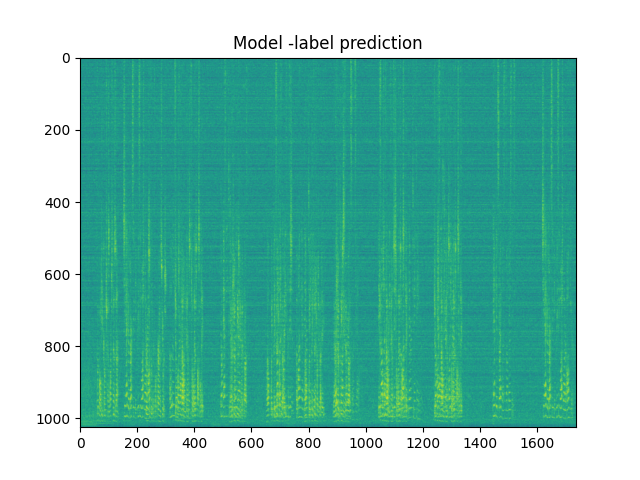
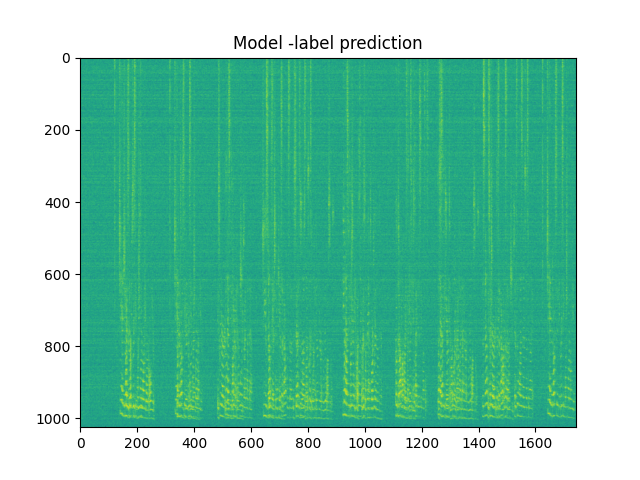
Added visualize plots and improved readme

diff --git a/Python_Create_Data_Base/test_dataset_sample.py b/Python_Create_Data_Base/test_dataset_sample.py
@@ -1,118 +1,93 @@
-import numpy as np
-import matplotlib.pyplot as plt
-import soundfile as sf
 import os
 
-def visualize_audio_and_angles(sample_idx, data_dir='data'):
+import matplotlib.pyplot as plt
+import numpy as np
+import soundfile as sf
+
+
+def labels_to_angles(labels):
+    labels = np.asarray(labels)
+    angles = np.full(labels.shape, np.nan, dtype=float)
+    active = labels > 0
+    angles[active] = labels[active] * 10 + 5
+    return angles
+
+
+def visualize_audio_and_angles(sample_idx, data_dir='data', channel_idx=0, output_dir='Results'):
     """
-    Plots the mixed audio with speaker highlights and their ground truth angles.
-    
+    Plot the mixed audio waveform and the time-aligned angle of each speaker.
+
     Parameters
     ----------
     sample_idx : int
-        The index of the sample to visualize (e.g., 1).
+        The index of the sample to visualize.
     data_dir : str
         Path to the folder containing the generated .wav and .npy files.
+    channel_idx : int
+        Microphone channel to plot from the multi-channel mixture.
     """
-    
-    # --- 1. Load Data ---
-    # Construct file paths
     mixed_wav = os.path.join(data_dir, f'together_{sample_idx}.wav')
-    s1_wav = os.path.join(data_dir, f'first_{sample_idx}.wav')
-    s2_wav = os.path.join(data_dir, f'second_{sample_idx}.wav')
     label1_npy = os.path.join(data_dir, f'label_location_first_{sample_idx}.npy')
     label2_npy = os.path.join(data_dir, f'label_location_second_{sample_idx}.npy')
-    
-    # Check if files exist
-    for f in [mixed_wav, s1_wav, s2_wav, label1_npy, label2_npy]:
-        if not os.path.exists(f):
-            print(f"Error: File not found: {f}")
+
+    for file_path in [mixed_wav, label1_npy, label2_npy]:
+        if not os.path.exists(file_path):
+            print(f'Error: File not found: {file_path}')
             return
 
-    # Read Audio
     y_mix, fs = sf.read(mixed_wav)
-    y_s1, _ = sf.read(s1_wav)
-    y_s2, _ = sf.read(s2_wav)
-    
-    # Read Labels (Frame-based classes 0-17)
     l1 = np.load(label1_npy)
     l2 = np.load(label2_npy)
-    
-    # --- 2. Configuration & alignment ---
-    # From your create_data_base.py config
-    nfft = 2048
+
     hop = 512
-    
-    # Create time axes
-    time_audio = np.linspace(0, len(y_mix)/fs, len(y_mix))
-    num_frames = len(l1)
-    time_frames = np.arange(num_frames) * hop / fs
-    
-    # Convert labels (0-17) to degrees (5-175)
-    # Formula: angle = label * 10 + 5
-    ang1 = l1 * 10 + 5
-    ang2 = l2 * 10 + 5
-    
-    # --- 3. Compute VAD for Masking ---
-    # We calculate the envelope of the clean signals to know when to highlight/plot
-    # Smooth the signal for better detection
-    def get_envelope(sig, frame_size=1024):
-        return np.convolve(np.abs(sig[:, 0] if sig.ndim > 1 else sig), np.ones(frame_size)/frame_size, mode='same')
 
-    env1 = get_envelope(y_s1)
-    env2 = get_envelope(y_s2)
-    
-    # Define a simple threshold (e.g., 5% of max volume)
-    threshold = 0.05 * np.max(np.abs(y_mix))
-    vad1_mask = env1 > threshold
-    vad2_mask = env2 > threshold
-    
-    # Downsample VAD mask to match frame rate for the Angle plot
-    # (Simple interpolation)
-    vad1_frame_mask = np.interp(time_frames, time_audio, vad1_mask) > 0.5
-    vad2_frame_mask = np.interp(time_frames, time_audio, vad2_mask) > 0.5
+    if y_mix.ndim == 1:
+        waveform = y_mix
+        channel_label = 'mono'
+    else:
+        if channel_idx < 0 or channel_idx >= y_mix.shape[1]:
+            raise ValueError(
+                f'channel_idx must be between 0 and {y_mix.shape[1] - 1}, got {channel_idx}'
+            )
+        waveform = y_mix[:, channel_idx]
+        channel_label = f'channel {channel_idx}'
 
-    # --- 4. Plotting ---
-    fig, (ax1, ax2) = plt.subplots(2, 1, figsize=(12, 8), sharex=True)
-    
-    # === Subplot 1: Audio Waveform with Highlights ===
-    # Plot the background mixed signal (light gray)
-    ax1.plot(time_audio, y_mix[:, 0] if y_mix.ndim > 1 else y_mix, color='lightgray', label='Mixture')
-    
-    # Highlight Speaker 1 (Blue)
-    # We use `fill_between` where the VAD is active
-    ax1.fill_between(time_audio, -1, 1, where=vad1_mask, color='blue', alpha=0.3, label='Speaker 1 Active')
-    
-    # Highlight Speaker 2 (Orange)
-    ax1.fill_between(time_audio, -1, 1, where=vad2_mask, color='orange', alpha=0.3, label='Speaker 2 Active')
-    
-    ax1.set_ylabel("Amplitude")
-    ax1.set_title(f"Audio Mixture: Sample {sample_idx}")
-    ax1.legend(loc="upper right")
-    ax1.set_ylim(-1.1, 1.1)
-    ax1.grid(True, alpha=0.3)
+    time_audio = np.arange(len(waveform)) / fs
+    time_frames = np.arange(len(l1)) * hop / fs
 
-    # === Subplot 2: Angles over Time ===
-    # We plot the angles, but set values to NaN where VAD is false to hide them
-    ang1_masked = ang1.copy().astype(float)
-    ang2_masked = ang2.copy().astype(float)
-    
-    ang1_masked[~vad1_frame_mask] = np.nan
-    ang2_masked[~vad2_frame_mask] = np.nan
-    
-    ax2.plot(time_frames, ang1_masked, 'b-o', markersize=3, label='Speaker 1 Angle')
-    ax2.plot(time_frames, ang2_masked, 'orange', marker='o', markersize=3, label='Speaker 2 Angle')
-    
-    ax2.set_ylabel("Angle of Arrival (Degrees)")
-    ax2.set_xlabel("Time (s)")
-    ax2.set_ylim(0, 180)
-    ax2.set_yticks(np.arange(0, 181, 30))
-    ax2.grid(True, alpha=0.3)
-    ax2.legend(loc="upper right")
-    
+    ang1 = labels_to_angles(l1)
+    ang2 = labels_to_angles(l2)
+
+    fig, axes = plt.subplots(
+        2,
+        1,
+        figsize=(15, 8),
+        sharex=True,
+        gridspec_kw={'height_ratios': [2, 1]},
+    )
+    ax_waveform, ax_angles = axes
+
+    ax_waveform.plot(time_audio, waveform, color='0.2', linewidth=0.6)
+    ax_waveform.set_title(f'Mixed audio waveform ({channel_label}) for sample {sample_idx}')
+    ax_waveform.set_ylabel('Amplitude')
+    ax_waveform.grid(True, alpha=0.3)
+
+    ax_angles.step(time_frames, ang1, where='post', linewidth=1.5, color='tab:blue', label='Speaker 1')
+    ax_angles.step(time_frames, ang2, where='post', linewidth=1.5, color='tab:orange', label='Speaker 2')
+    ax_angles.set_title('Speaker angle over time')
+    ax_angles.set_xlabel('Time (s)')
+    ax_angles.set_ylabel('Angle (deg)')
+    ax_angles.set_ylim(0, 180)
+    ax_angles.set_yticks(np.arange(0, 181, 15))
+    ax_angles.grid(True, alpha=0.3)
+    ax_angles.legend(loc='upper right')
+
     plt.tight_layout()
-    plt.savefig(os.path.join(data_dir, f'visualization_sample_{sample_idx}.png'))
-    
+    plt.savefig(f'{output_dir}/sample_{sample_idx}_visualization.png')
 
-# Example Usage:
-visualize_audio_and_angles(1, data_dir='/home/evenzug/LCMV_using_CSD/Python_Create_Data_Base/data')
+
+visualize_audio_and_angles(
+    2,
+    data_dir='/home/evenzug/LCMV_using_CSD/Python_Create_Data_Base/data',
+    output_dir='/home/evenzug/LCMV_using_CSD/Python_Create_Data_Base/Results',
+)

diff --git a/DataSamples_to_InputVectors/create_data_base.py b/DataSamples_to_InputVectors/create_data_base.py
@@ -392,26 +392,65 @@ for k in range(1,nom_data_sets):
         idx=idx+1
         
 np.save(idx_file_name,idx)
-plt.figure();plt.plot(vad1)
-plt.figure();plt.plot(vad2)
-plt.figure();plt.plot(L)
-plt.figure();plt.plot(L2)
-plt.figure();plt.hist(L,3)
-plt.figure();plt.hist(L2,20)
-plt.figure();plt.hist(L_total,3)
-plt.figure();plt.hist(L2_total,20)
 
-plt.figure();
-temp=z_k_0.T;
-plt.title('Model -label prediction')
-plt.imshow(temp[::-1],aspect='auto')
-plt.savefig(output_dir+'stft_input.png')
+# -------------------------
+# Diagnostic plotting block
+# -------------------------
+temp = z_k_0.T
 
-fig, ax1 = plt.subplots()
+# Figure 1: Input spectrogram + activity/label timelines
+fig, axes = plt.subplots(
+    3,
+    1,
+    figsize=(14, 10),
+    sharex=True,
+    gridspec_kw={'height_ratios': [2.2, 1.0, 1.0]}
+)
 
-ax2 = ax1.twinx()
-ax3 = ax1.twinx()
-ax1.imshow(temp[::-1],aspect='auto')
-ax2.plot(L, 'b-')
-ax2.plot(L2, 'g-')
-plt.savefig(output_dir+'label_prediction.png')
+ax_spec, ax_vad, ax_lbl = axes
+
+spec_im = ax_spec.imshow(temp[::-1], aspect='auto', origin='lower', cmap='magma')
+ax_spec.set_title('Input STFT log-magnitude (mic 0)')
+ax_spec.set_ylabel('Frequency bin')
+fig.colorbar(spec_im, ax=ax_spec, pad=0.01, label='Log magnitude')
+
+ax_vad.plot(vad1, label='VAD speaker 1', linewidth=1.0, color='tab:blue')
+ax_vad.plot(vad2, label='VAD speaker 2', linewidth=1.0, color='tab:orange')
+ax_vad.plot(np.clip(L, 0, 2), label='Active speakers count', linewidth=1.2, color='tab:green')
+ax_vad.set_title('Speech activity by frame')
+ax_vad.set_ylabel('Activity')
+ax_vad.set_ylim(-0.1, 2.1)
+ax_vad.grid(alpha=0.25)
+ax_vad.legend(loc='upper right')
+
+ax_lbl.plot(L2, linewidth=1.0, color='tab:purple', label='Direction class (0-19)')
+ax_lbl.set_title('Direction label timeline')
+ax_lbl.set_ylabel('Class')
+ax_lbl.set_xlabel('Frame index')
+ax_lbl.set_ylim(-0.5, 19.5)
+ax_lbl.set_yticks(np.arange(0, 20, 1))
+ax_lbl.grid(alpha=0.25)
+ax_lbl.legend(loc='upper right')
+
+plt.tight_layout()
+plt.savefig(output_dir + 'label_prediction.png', dpi=180)
+
+# Figure 2: Label distribution summary
+fig2, axes2 = plt.subplots(1, 2, figsize=(13, 4))
+
+axes2[0].hist(L_total, bins=np.array([-0.5, 0.5, 1.5, 2.5]), edgecolor='black')
+axes2[0].set_title('Distribution of active-speaker count (L_total)')
+axes2[0].set_xlabel('Active speakers')
+axes2[0].set_ylabel('Frames')
+axes2[0].set_xticks([0, 1, 2])
+axes2[0].grid(alpha=0.25)
+
+axes2[1].hist(L2_total, bins=np.arange(-0.5, 20.5, 1), edgecolor='black')
+axes2[1].set_title('Distribution of direction classes (L2_total)')
+axes2[1].set_xlabel('Direction class')
+axes2[1].set_ylabel('Frames')
+axes2[1].set_xticks(np.arange(0, 20, 2))
+axes2[1].grid(alpha=0.25)
+
+plt.tight_layout()
+plt.savefig(output_dir + 'label_histograms.png', dpi=180)

diff --git a/README.md b/README.md
@@ -3,25 +3,17 @@
 # Dataset_Generation
 To generate the complete dataset for training the Concurrent Speaker Detector (CSD) model, you need to run the scripts in the following order.
 
-> download the TIMIT Dataset [here](https://academictorrents.com/details/34e2b78745138186976cbc27939b1b34d18bd5b3) using a BitTorrent, or ask Gal(galevenzur2@gmail.com) for it 
+> download the TIMIT Dataset [here](https://academictorrents.com/details/34e2b78745138186976cbc27939b1b34d18bd5b3) using a BitTorrent, or ask Gal(galevenzur2@gmail.com) for it. Next, put the timit dataset inside the main folder. 
 
-### **Phase 1: Setup & Compilation (MATLAB)**
+### **Phase 2: Synthetic Audio Generation**
 
-**File to Run:** `Eyal_Files/rir_generator.cpp`
-
-- **Action:** You do not "run" this script directly; you **compile** it.
-- **Purpose:** Creates the `rir_generator` binary (MEX file) required to simulate room acoustics.
-- **Command:** `mex rir_generator.cpp`
-
-### **Phase 2: Synthetic Audio Generation (MATLAB)**
-
-**File to Run:** `Eyal_Files/create_data_base.m`
+**File to Run: Python_Create_Data_Base/create_data_base.py** ``
 
 - **Purpose:** This is the main driver script. It generates thousands of synthetic audio files representing dynamic acoustic scenarios.
 - **Generates:**
     - **Mixed Audio:** `together_*.wav` (The main input for the model).
     - **Clean References:** `first_*.wav` and `second_*.wav` (Individual speakers, used for validation).
-    - **Labels:** `label_location_*.mat` (Contains VAD activity and spatial location data).
+    - **Labels:** `label_location_*.npy` (Contains VAD activity and spatial location data).
 - **Dependencies:** This script automatically calls:
     - `create_locations_18_dynamic.m` to calculate speaker trajectories.
     - `fun_create_deffuse_noise.m` to generate ambient diffuse noise.
